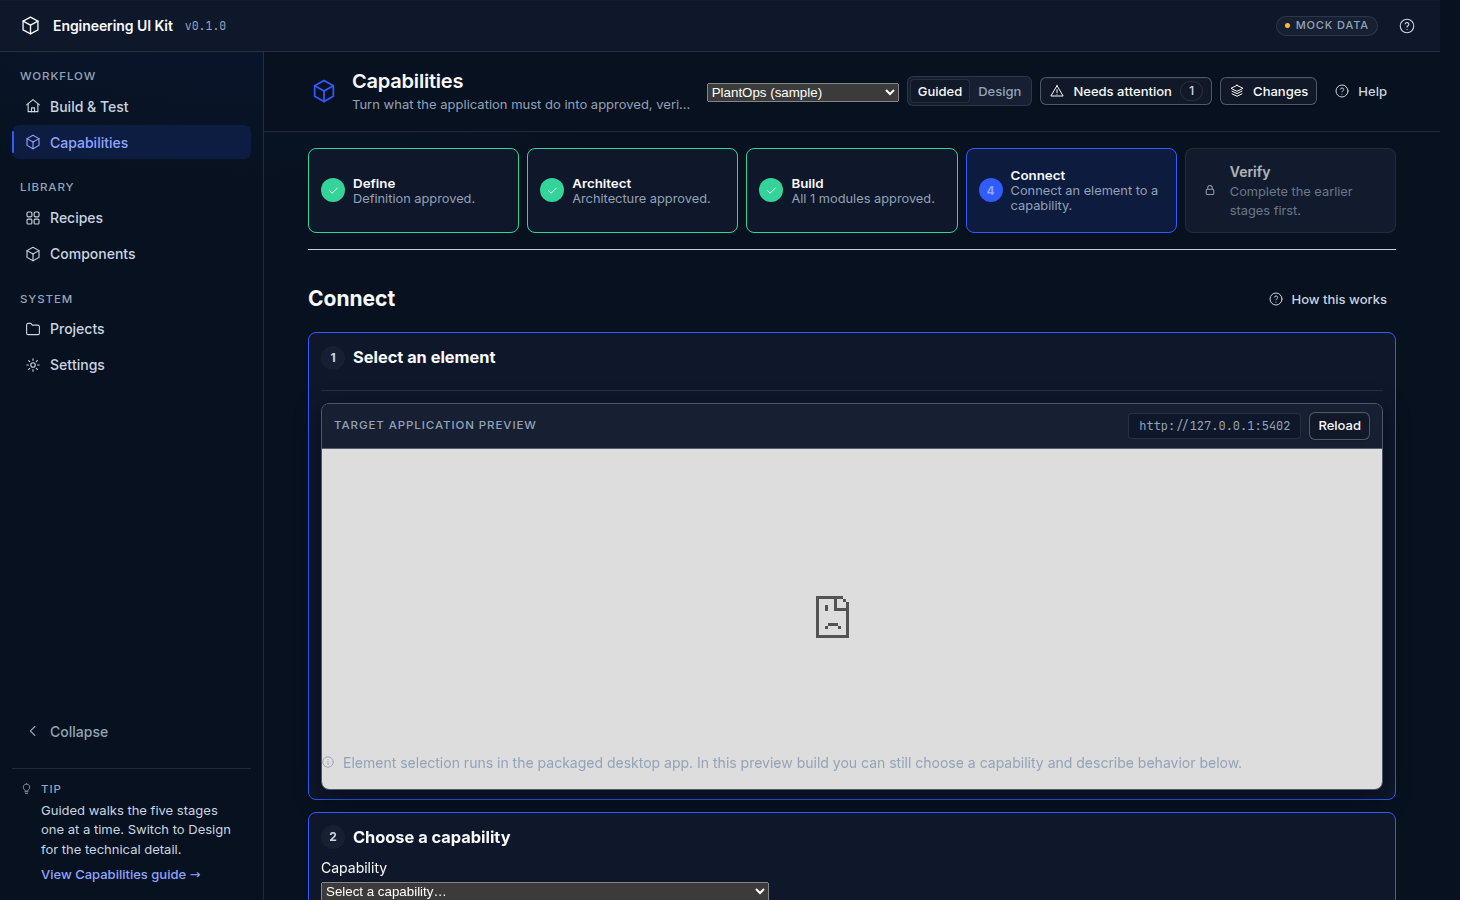
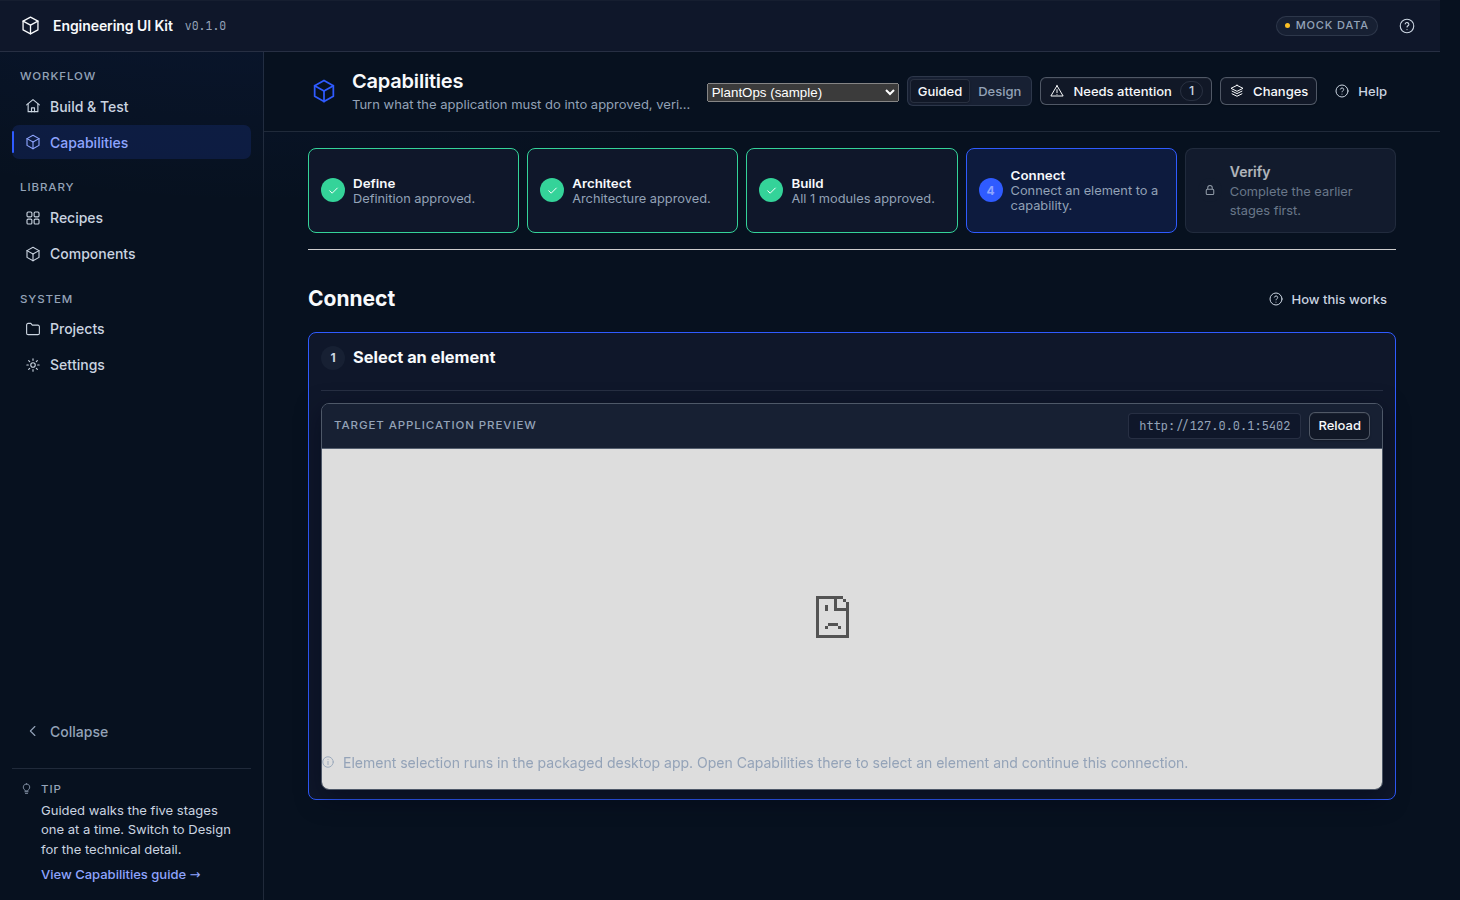
Capabilities: responsive narrow shell + portable, assertive visual harness
Responsive (styles.css): at <=720px (covers 500x900 and the 640 CSS-px reflow of
1280@200%) the sidebar auto-collapses to the icon rail, main + page-header gutters
shrink to 16px with the sticky header's full-bleed kept in step (fixes the header
overflow), the page header stacks copy above wrapped actions, the project selector
flexes, Design tabs scroll within their row, and long identifiers/paths wrap. No
body-level horizontal scroll at 500 or 640.

Nav a11y (App.tsx): nav items carry a persistent aria-label so they keep an
accessible name when the label is visually collapsed at narrow widths.

Harness (scripts/capabilities-ux-visual.mjs): portable Chromium resolution
(env override -> Playwright resolution -> installed-build scan -> actionable
failure; never silently skips). Adds assertions run alongside the screenshots —
no horizontal overflow (per state), required header actions reachable, active
stage visible, Guided Build selected-module/next-action agree, module names
humanized — and exits nonzero on any failure. New
> engineering-ui-kit@0.1.0 visual:capabilities
> node scripts/capabilities-ux-visual.mjs

  ✓ 01-no-project
  ✓ 02-empty-define
  ✓ 03-handoff-ready
  ✓ 04-define-draft
  ✓ 05-architecture-draft
  ✓ 06-build-two-region
  ✓ 07-connect-active
  ✓ 08-completed-journey
  ✓ 09-design-1-application
  ✓ 09-design-2-architecture
  ✓ 09-design-3-needs-attention
  ✓ 09-design-4-modules
  ✓ 09-design-5-connections
  ✓ 09-design-6-verification
  ✓ 10-help-overview
[…]

Changed region(s): [[0.2158, 0.9022, 0.524, 1.0], [0.4932, 0.84, 0.8322, 0.8711]]

diff --git a/apps/gui/src/styles.css b/apps/gui/src/styles.css
@@ -3732,6 +3732,37 @@ code.path-wrap {
     grid-template-columns: 1fr;
   }
 }
+
+/* Narrow shell (also covers 1280px @ 200% zoom ≈ 640 CSS px): auto-collapse the
+   sidebar to the icon rail and reduce gutters so content fits without horizontal scroll.
+   Applies to the whole app; Build & Test is unaffected at normal widths. */
+@media (max-width: 720px) {
+  .app-body { grid-template-columns: 56px 1fr; }
+  .sidebar { padding-left: var(--semantic-spacing-2); padding-right: var(--semantic-spacing-2); }
+  .sidebar .nav-section-label,
+  .sidebar .nav-label,
+  .sidebar .tip-card { display: none; }
+  .sidebar .nav-item { justify-content: center; padding: 0; }
+  .main { padding: 0 16px 32px; }
+  /* Keep the sticky header's full-bleed in step with the reduced gutter (no overflow). */
+  .page-header { padding-left: 16px; padding-right: 16px; margin-left: -16px; margin-right: -16px; }
+
+  /* Page header stacks its copy above wrapped actions. */
+  .capabilities-view .page-header { flex-wrap: wrap; row-gap: var(--semantic-spacing-2); }
+  .capabilities-view .page-header-actions { margin-left: 0; width: 100%; justify-content: flex-start; }
+  .cap-project-select select,
+  .cap-project-select { min-width: 0; flex: 1 1 8rem; }
+
+  /* Design area tabs scroll horizontally inside their own row rather than the body. */
+  .cap-design .tab-row { overflow-x: auto; }
+
+  /* Long identifiers / paths wrap instead of forcing body overflow. */
+  .capabilities-view code,
+  .capabilities-view .mono,
+  .cap-handoff-file-name,
+  .cap-build-module-name { overflow-wrap: anywhere; word-break: break-word; }
+  .cap-handoff-files-raw code { overflow-wrap: anywhere; }
+}
 .capabilities-header {
   display: flex;
   justify-content: space-between;

diff --git a/apps/gui/src/App.tsx b/apps/gui/src/App.tsx
@@ -287,6 +287,7 @@ export default function App() {
                           type="button"
                           className={item.id === navActive ? 'nav-item active' : 'nav-item'}
                           aria-current={item.id === navActive ? 'page' : undefined}
+                          aria-label={item.label}
                           title={navCollapsed ? item.label : undefined}
                           onClick={() => navigate(item.id)}
                         >